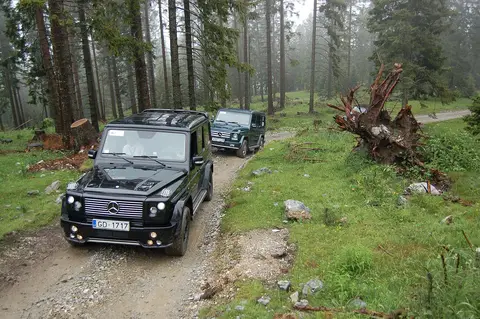
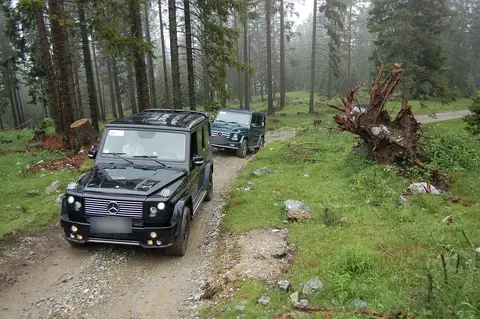
Post 28 G-Wagon years carousel: IG DgF53VZnM8-, pin 1128292512946955755; blur Schöckl plates, swap slide 4 off parked shot
Claude-Session: https://claude.ai/code/session_01Q1QwcL3BhkRrCtgHrzdRcF

Changed region(s): [[0.1875, 0.6771, 0.2812, 0.7335], [0.4375, 0.4232, 0.5, 0.4514]]

diff --git a/site/links/index.html b/site/links/index.html
@@ -74,12 +74,15 @@ btAfterLoad(function(){var s=document.createElement('script');s.async=true;s.src
   <p class="lk-lede">Tap the same picture to get that truck’s full guide.</p>
   
   
-  <a class="lk-top" href="/models/unimog/unimog-404/tires/?utm_source=instagram&amp;utm_medium=social&amp;utm_campaign=links&amp;utm_content=tires-unimog-unimog-404-top" data-track="links-top">
-    <img src="/links/thumbs/tires-unimog-unimog-404.jpg" alt="" width="300" height="375" loading="eager">
-    <span class="lk-top-body"><span class="lk-kind">Newest post</span><span class="lk-top-title">Mercedes Unimog 404: biggest tire that fits</span><span class="lk-top-go">Read the full guide →</span></span>
+  <a class="lk-top" href="/models/g-class/w463/years/?utm_source=instagram&amp;utm_medium=social&amp;utm_campaign=links&amp;utm_content=q28-top" data-track="links-top">
+    <img src="/links/thumbs/q28.jpg" alt="" width="300" height="375" loading="eager">
+    <span class="lk-top-body"><span class="lk-kind">Newest post</span><span class="lk-top-title">G-Wagon W463 years to avoid, and the one I bought</span><span class="lk-top-go">Read the full guide →</span></span>
   </a>
   <div class="lk-grid">
-    <a class="lk-tile" href="/models/jeep/jk/problems/?utm_source=instagram&amp;utm_medium=social&amp;utm_campaign=links&amp;utm_content=q27" data-track="links-grid">
+    <a class="lk-tile" href="/models/unimog/unimog-404/tires/?utm_source=instagram&amp;utm_medium=social&amp;utm_campaign=links&amp;utm_content=tires-unimog-unimog-404" data-track="links-grid">
+      <img src="/links/thumbs/tires-unimog-unimog-404.jpg" alt="" width="300" height="375" loading="eager">
+      <span class="lk-cap"><span class="lk-kind">Tire sizes</span><span class="lk-title">Mercedes Unimog 404: biggest tire that fits</span></span>
+    </a><a class="lk-tile" href="/models/jeep/jk/problems/?utm_source=instagram&amp;utm_medium=social&amp;utm_campaign=links&amp;utm_content=q27" data-track="links-grid">
       <img src="/links/thumbs/q27.jpg" alt="" width="300" height="375" loading="eager">
       <span class="lk-cap"><span class="lk-kind">Buyer’s guide</span><span class="lk-title">Jeep Wrangler JK buying guide: 5 things to check first</span></span>
     </a><a class="lk-tile" href="/models/pinzgauer/pinzgauer-710-712/tires/?utm_source=instagram&amp;utm_medium=social&amp;utm_campaign=links&amp;utm_content=tires-pinzgauer-pinzgauer-710-712" data-track="links-grid">
@@ -95,7 +98,7 @@ btAfterLoad(function(){var s=document.createElement('script');s.async=true;s.src
       <img src="/links/thumbs/tires-delica-delica-l300.jpg" alt="" width="300" height="375" loading="eager">
       <span class="lk-cap"><span class="lk-kind">Tire sizes</span><span class="lk-title">Mitsubishi Delica Star Wagon (L300 4WD): biggest tire that fits</span></span>
     </a><a class="lk-tile" href="/compare/samurai-vs-jimny/?utm_source=instagram&amp;utm_medium=social&amp;utm_campaign=links&amp;utm_content=q26" data-track="links-grid">
-      <img src="/links/thumbs/q26.jpg" alt="" width="300" height="375" loading="eager">
+      <img src="/links/thumbs/q26.jpg" alt="" width="300" height="375" loading="lazy">
       <span class="lk-cap"><span class="lk-kind">Buyer’s guide</span><span class="lk-title">Why Americans can&#39;t buy a new Suzuki Jimny until 2043</span></span>
     </a><a class="lk-tile" href="/field-notes/reader-rig-riverhouse-defender-110/?utm_source=instagram&amp;utm_medium=social&amp;utm_campaign=links&amp;utm_content=qrig-riverhouse-110" data-track="links-grid">
       <img src="/links/thumbs/qrig-riverhouse-110.jpg" alt="" width="300" height="375" loading="lazy">
@@ -145,9 +148,6 @@ btAfterLoad(function(){var s=document.createElement('script');s.async=true;s.src
     </a><a class="lk-tile" href="/tires/?utm_source=instagram&amp;utm_medium=social&amp;utm_campaign=links&amp;utm_content=q20" data-track="links-grid">
       <img src="/links/thumbs/q20.jpg" alt="" width="300" height="375" loading="lazy">
       <span class="lk-cap"><span class="lk-kind">Buyer’s guide</span><span class="lk-title">Biggest tire on a stock truck: four boxy 4x4s that take 33s with no lift</span></span>
-    </a><a class="lk-tile" href="/models/nissan-patrol/patrol-60/tires/?utm_source=instagram&amp;utm_medium=social&amp;utm_campaign=links&amp;utm_content=tires-nissan-patrol-patrol-60" data-track="links-grid">
-      <img src="/links/thumbs/tires-nissan-patrol-patrol-60.jpg" alt="" width="300" height="375" loading="lazy">
-      <span class="lk-cap"><span class="lk-kind">Tire sizes</span><span class="lk-title">Nissan Patrol 60 Series: biggest tire that fits</span></span>
     </a>
   </div>
 

diff --git a/social/README.md b/social/README.md
@@ -42,6 +42,7 @@ Once both accounts exist, connect them to a scheduler (Postiz, Buffer or Later).
 | Nov 21, 2026 | Spec Sheet 03: Toyota 4Runner 3rd Gen. Instagram https://www.instagram.com/boxytrucks/p/DgBSf64HMkA/, Pinterest 1128292512946817460; X in the weekly round-up. Photos: NeONBRAND, CC0 1.0; Quilia; Zach Dischner, CC BY 2.0 | `specsheets/img/specsheet-4runner-3rd-gen.jpg` |
 | Nov 21, 2026 | Evening tire Short: Steyr-Puch Pinzgauer 710 / 712 (plate blurred in 710-710m-wales-byway and 710-710m-campsite sources; campsite shot swapped for the Kielder gully). YouTube oW3I57Mf4nE with pinned comment, Instagram Reel DgBkMluu9Sc, Pinterest 1128292512946825733; X in the weekly round-up; TikTok skipped, paused. Photos: Bryn Pinzgauer, CC BY 2.0 | `posts/shorts/tires-pinzgauer-pinzgauer-710-712.mp4` |
 | Nov 22, 2026 | "Jeep Wrangler JK: 5 things to check first" Reel (24 s; plate already blurred in the Lake Mead source). Instagram Reel DgDU8ovuGqv, YouTube Short DrKCUs9pUeQ with pinned comment, Pinterest 1128292512946880264; X in the weekly round-up; TikTok skipped, paused. Photos: Brady Cook, CC0; Andrew Cattoir, NPS; K4urram, CC BY-SA 4.0 | `posts/27-jeep-jk-checks.mp4` |
+| Nov 23, 2026 | "G-Wagon W463 years to avoid, and the one I bought" carousel (5 slides; slide 4 swapped from a parked-on-paving shot to the Schöckl forest-track photo, plates blurred in both Schöckl source images). Instagram DgF53VZnM8-, Pinterest 1128292512946955755; X in the weekly round-up; TikTok skipped, paused. Photos: Hank; Ben - PTM11, CC BY-SA 4.0; Bahnfrend, CC BY-SA 3.0 | `posts/28-g-wagon-years-1..5.jpg` |
 | Nov 22, 2026 | Media kit "work with us" post (Hank's request): Instagram https://www.instagram.com/boxytrucks/p/DgDouVSG_ju/, X https://x.com/boxytrucks/status/2124597183836021210 (accidental duplicate 2124597334311145855 deleted Nov 22). Photo: Hank's own G 500 | `posts/mk/media-kit-post.jpg` |
 | Nov 22, 2026 | Evening tire Short: Mercedes Unimog 404 (eyebrow fixed). YouTube mMe35RykiGs with pinned comment, Instagram Reel DgD_V7puBL2, Pinterest 1128292512946902190; X in the weekly round-up; TikTok skipped, paused. Photos: McKay Savage, CC BY 2.0; Fvanweerdenburg, CC BY-SA 2.5 | `posts/shorts/tires-unimog-unimog-404.mp4` |
 | Nov 1, 2026 | "Wrangler or Bronco?" (Oct 31 slot, posted a day late after an internet outage), CTA to boxytrucks.com/compare. Photos: BLM California (public domain); Thomas Tucker / Unsplash | `posts/04-jl-vs-bronco.jpg` |
